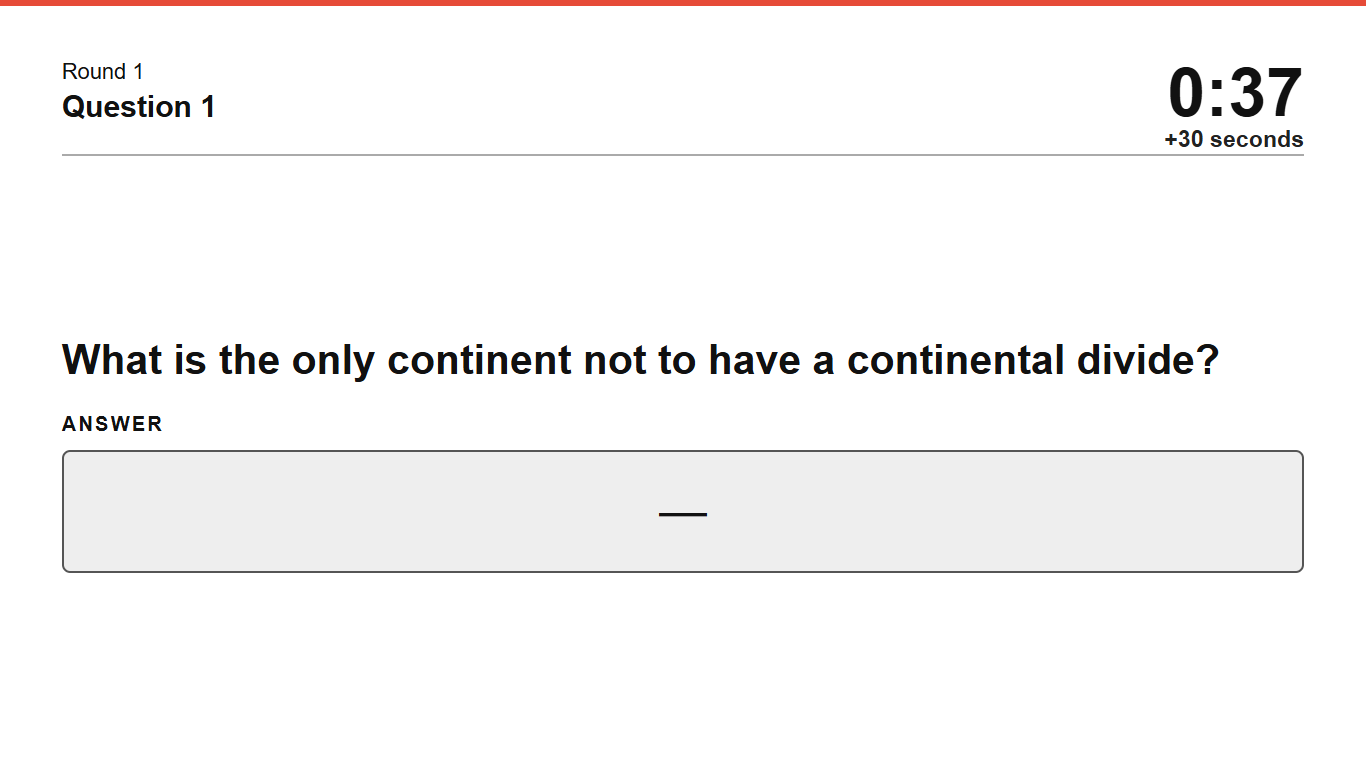
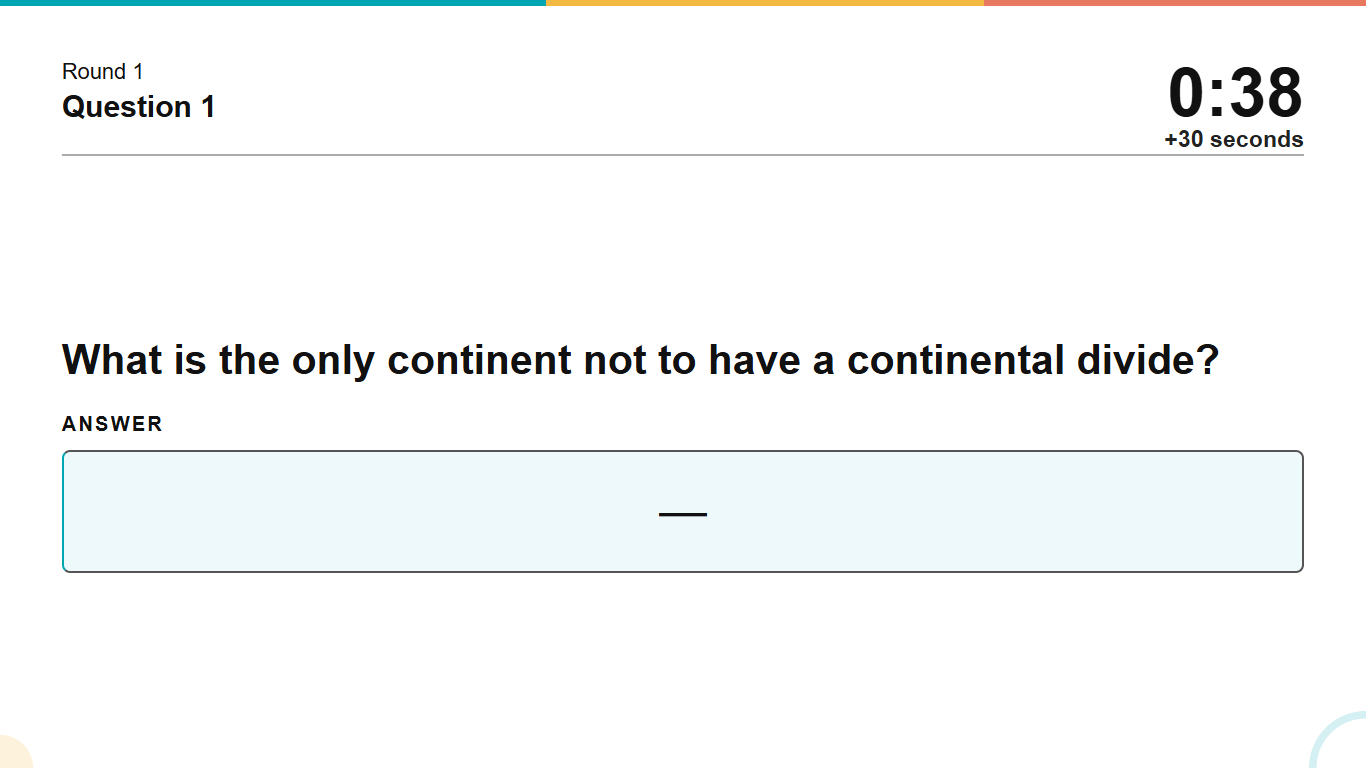
Simplify trivia timer to a slider and single control

diff --git a/src/trivia/TriviaApp.tsx b/src/trivia/TriviaApp.tsx
@@ -42,11 +42,12 @@ export function TriviaApp({route}:{route:string}){
   </> }</main>;
 }
 
-function TriviaHost({deck,session:s,now,act,fail}:{deck:TriviaDeck;session:TriviaSession;now:number;act:(a:TriviaAction)=>void;fail:(e:unknown)=>void}){const c=deck.cards[s.index];const running=['question','answers'].includes(s.phase);return <div className="trivia-host"><section className="panel trivia-controls"><p>{s.title} · screen {s.index+1}/{deck.cards.length} · {s.phase}</p><div className="button-row"><button disabled={!s.history.length} onClick={()=>act({type:'previous'})}>← Back / undo</button><button className="primary" disabled={s.phase==='scores'&&s.checkpoint==='final'} onClick={()=>act({type:'next'})}>{s.phase==='card'&&c.kind==='question'?'Show question & start timer':'Next →'}</button><button onClick={()=>act({type:'intro'})}>Intro</button><select aria-label="Jump to trivia screen" value={s.index} onChange={e=>act({type:'jump',index:Number(e.target.value)})}>{deck.cards.map((card,i)=><option value={i} key={card.id}>{card.round} · {card.title}</option>)}</select></div><h2>{s.phase==='scores'?`${s.checkpoint} standings`:c.title}</h2><p className="trivia-host-prompt">{c.prompt}</p><div className="button-row">{s.phase==='scores'?<><button onClick={()=>act({type:'revealStanding'})}>Reveal next team ↑</button><button onClick={()=>act({type:'closeScores'})}>Close scores / return</button></>:<>{c.answers.length>6&&s.phase!=='answers'&&<button disabled={!running} onClick={()=>act({type:'showAnswerBoard'})}>Show answer board</button>}<button disabled={!running||s.revealed>=c.answers.length} onClick={()=>act({type:'reveal'})}>Reveal next answer ({s.revealed}/{c.answers.length})</button>{s.phase==='answers'&&<button onClick={()=>act({type:'hideAnswers'})}>Hide answers</button>}<button onClick={()=>act({type:'scores',checkpoint:'manual'})}>Show scores on TV</button></>}</div><QuestionTiming key={c.id+questionSeconds(s,c)} seconds={questionSeconds(s,c)} disabled={c.kind!=='question'||s.phase==='scores'} act={act}/><div className="trivia-timer-controls"><b>{formatTime(triviaLeft(s,now))}</b><button disabled={!running} onClick={()=>act({type:'toggleTimer'})}>{s.end===null?'Start timer':'Pause'}</button><button disabled={!running} onClick={()=>act({type:'extend'})}>+30 seconds</button><button disabled={!running} onClick={()=>act({type:'resetTimer'})}>Reset timer</button><label><input type="checkbox" checked={s.muted} onChange={e=>{const muted=e.target.checked;void updateTrivia(current=>current?{...current,muted}:null).catch(fail);}}/> Mute</label><label>Sound volume<input aria-label="Trivia sound volume" type="range" min="0" max="1" step=".05" value={s.volume??.8} onChange={e=>{const volume=Number(e.target.value);void updateTrivia(current=>current?{...current,volume}:null).catch(fail);}}/></label><button onClick={()=>{void testSound(s.volume??.8,s.muted);}}>Enable / test sound</button><span>{audioReady()?'Sound ready · presenter output':'Sound not enabled yet'}</span></div><p className="subtle">Next: title card → question + timer → following screen. Scores appear before Round 3, before the final question, and after it. Space reveals; N / → next; U / ← back; T timer.</p></section><aside className="trivia-host-side"><div className="trivia-preview"><TriviaDisplay deck={deck} session={s} now={now}/></div></aside></div>;}
+function TriviaHost({deck,session:s,now,act,fail}:{deck:TriviaDeck;session:TriviaSession;now:number;act:(a:TriviaAction)=>void;fail:(e:unknown)=>void}){const c=deck.cards[s.index];const running=['question','answers'].includes(s.phase);return <div className="trivia-host"><section className="panel trivia-controls"><p>{s.title} · screen {s.index+1}/{deck.cards.length} · {s.phase}</p><div className="button-row"><button disabled={!s.history.length} onClick={()=>act({type:'previous'})}>← Back / undo</button><button className="primary" disabled={s.phase==='scores'&&s.checkpoint==='final'} onClick={()=>act({type:'next'})}>{s.phase==='card'&&c.kind==='question'?'Show question & start timer':'Next →'}</button><button onClick={()=>act({type:'intro'})}>Intro</button><select aria-label="Jump to trivia screen" value={s.index} onChange={e=>act({type:'jump',index:Number(e.target.value)})}>{deck.cards.map((card,i)=><option value={i} key={card.id}>{card.round} · {card.title}</option>)}</select></div><h2>{s.phase==='scores'?`${s.checkpoint} standings`:c.title}</h2><p className="trivia-host-prompt">{c.prompt}</p><div className="button-row">{s.phase==='scores'?<><button onClick={()=>act({type:'revealStanding'})}>Reveal next team ↑</button><button onClick={()=>act({type:'closeScores'})}>Close scores / return</button></>:<>{c.answers.length>6&&s.phase!=='answers'&&<button disabled={!running} onClick={()=>act({type:'showAnswerBoard'})}>Show answer board</button>}<button disabled={!running||s.revealed>=c.answers.length} onClick={()=>act({type:'reveal'})}>Reveal next answer ({s.revealed}/{c.answers.length})</button>{s.phase==='answers'&&<button onClick={()=>act({type:'hideAnswers'})}>Hide answers</button>}<button onClick={()=>act({type:'scores',checkpoint:'manual'})}>Show scores on TV</button></>}</div><QuestionTiming key={c.id+questionSeconds(s,c)} seconds={questionSeconds(s,c)} left={triviaLeft(s,now)} running={s.end!==null} disabled={!running} act={act}/><div className="trivia-sound-controls"><label><input type="checkbox" checked={s.muted} onChange={e=>{const muted=e.target.checked;void updateTrivia(current=>current?{...current,muted}:null).catch(fail);}}/> Mute</label><label>Sound volume<input aria-label="Trivia sound volume" type="range" min="0" max="1" step=".05" value={s.volume??.8} onChange={e=>{const volume=Number(e.target.value);void updateTrivia(current=>current?{...current,volume}:null).catch(fail);}}/></label><button onClick={()=>{void testSound(s.volume??.8,s.muted);}}>Enable / test sound</button><span>{audioReady()?'Sound ready · presenter output':'Sound not enabled yet'}</span></div><p className="subtle">Next: title card → question + timer → following screen. Scores appear before Round 3, before the final question, and after it. Space reveals; N / → next; U / ← back; T timer.</p></section><aside className="trivia-host-side"><div className="trivia-preview"><TriviaDisplay deck={deck} session={s} now={now}/></div></aside></div>;}
 
-function QuestionTiming({seconds,disabled,act}:{seconds:number;disabled:boolean;act:(a:TriviaAction)=>void}){
- const [value,setValue]=useState(String(seconds));
- return <div className="trivia-question-timing"><label>Seconds for this question<input aria-label="Seconds for this question" type="number" min="10" max="3600" step="1" value={value} disabled={disabled} onChange={e=>setValue(e.target.value)}/></label><button disabled={disabled||!Number.isInteger(Number(value))||Number(value)<10||Number(value)>3600} onClick={()=>act({type:'duration',seconds:Number(value)})}>Set / restart time</button><small>Saved for this question in this night. Use the editor to save a game default.</small></div>;
+function QuestionTiming({seconds,left,running,disabled,act}:{seconds:number;left:number;running:boolean;disabled:boolean;act:(a:TriviaAction)=>void}){
+ const [value,setValue]=useState(Math.min(600,Math.max(0,Math.round(seconds/15)*15)));
+ const changed=value!==seconds;
+ return <div className="trivia-question-timing"><label>Timer <strong>{formatTime(changed?value:left)}</strong><input aria-label="Seconds for this question" aria-valuetext={formatTime(value)} type="range" min="0" max="600" step="15" value={value} disabled={disabled} onChange={e=>setValue(Number(e.target.value))}/><span className="trivia-slider-scale">0:00 <span>10:00 · 15-second steps</span></span></label><button disabled={disabled} onClick={()=>act(!changed&&left>0?{type:'toggleTimer'}:{type:'duration',seconds:value,start:true})}>{running&&left>0&&!changed?'Pause':changed||left===0?'Restart timer':'Start timer'}</button></div>;
 }
 
 function Brand(){return <div className="trivia-brand"><img src="./outspoken-dark.png" alt="Outspoken Entertainment"/></div>;}

diff --git a/src/trivia/timing.test.ts b/src/trivia/timing.test.ts
@@ -4,7 +4,7 @@ import {newTriviaSession,reduceTrivia,triviaLeft} from './engine';
 import {cardSeconds,suggestedSeconds} from './timing';
 import {validateTriviaSession} from './types';
 it('uses 3/4/5/6-minute automatic defaults and preserves explicit times',()=>{const c=blankCard('question');c.answers=['One'];expect(cardSeconds(c)).toBe(180);c.answers=['One','Two','Three','Four'];expect(cardSeconds(c)).toBe(240);c.answers.push('Five');expect(cardSeconds(c)).toBe(300);c.title='Final bonus';expect(suggestedSeconds(c)).toBe(360);c.autoTime=false;c.seconds=420;expect(cardSeconds(c)).toBe(420);});
-it('saves each question override through navigation, reset and result reload; undo restores it',()=>{const d=parseTriviaText('Title: Test\nRound 1\nQuestion 1\nQuestion: First?\nAnswer: One\nQuestion 2\nQuestion: Second?\nAnswer: Two');let s=newTriviaSession(d);s=reduceTrivia(s,{type:'jump',index:1},d,1000);expect(s.remaining).toBe(180);s=reduceTrivia(s,{type:'duration',seconds:330},d,1000);s=reduceTrivia(s,{type:'next'},d,2000);expect(triviaLeft(s,12000)).toBe(320);s=reduceTrivia(s,{type:'duration',seconds:420},d,12000);expect(triviaLeft(s,12000)).toBe(420);s=reduceTrivia(s,{type:'undo'},d,13000);expect(s.durations?.[d.cards[1].id]).toBe(330);s=reduceTrivia(s,{type:'jump',index:2},d);expect(s.remaining).toBe(180);s=reduceTrivia(s,{type:'jump',index:1},d);expect(s.remaining).toBe(330);s=reduceTrivia(s,{type:'resetTimer'},d);expect(validateTriviaSession(JSON.parse(JSON.stringify(s)),d).remaining).toBe(330);expect(reduceTrivia(s,{type:'duration',seconds:0},d)).toEqual(s);});
+it('saves each question override through navigation, reset and result reload; undo restores it',()=>{const d=parseTriviaText('Title: Test\nRound 1\nQuestion 1\nQuestion: First?\nAnswer: One\nQuestion 2\nQuestion: Second?\nAnswer: Two');let s=newTriviaSession(d);s=reduceTrivia(s,{type:'jump',index:1},d,1000);expect(s.remaining).toBe(180);s=reduceTrivia(s,{type:'duration',seconds:330},d,1000);s=reduceTrivia(s,{type:'next'},d,2000);expect(triviaLeft(s,12000)).toBe(320);s=reduceTrivia(s,{type:'duration',seconds:420},d,12000);expect(triviaLeft(s,12000)).toBe(420);s=reduceTrivia(s,{type:'undo'},d,13000);expect(s.durations?.[d.cards[1].id]).toBe(330);s=reduceTrivia(s,{type:'jump',index:2},d);expect(s.remaining).toBe(180);s=reduceTrivia(s,{type:'jump',index:1},d);expect(s.remaining).toBe(330);s=reduceTrivia(s,{type:'resetTimer'},d);expect(validateTriviaSession(JSON.parse(JSON.stringify(s)),d).remaining).toBe(330);expect(reduceTrivia(s,{type:'duration',seconds:-15},d)).toEqual(s);s=reduceTrivia(s,{type:'duration',seconds:0},d);expect(validateTriviaSession(JSON.parse(JSON.stringify(s)),d).remaining).toBe(0);expect(reduceTrivia(s,{type:'duration',seconds:615},d)).toEqual(s);expect(reduceTrivia(s,{type:'duration',seconds:17},d)).toEqual(s);expect(reduceTrivia(s,{type:'duration',seconds:600},d).remaining).toBe(600);});
 it('text import honors explicit timing and exports effective automatic timing',()=>{const d=parseTriviaText('Round 1\nQuestion 1\nQuestion: First?\nAnswer: One\nTimer: 270');expect(cardSeconds(d.cards[1])).toBe(270);d.cards[1].autoTime=true;expect(parseTriviaText(exportTriviaText(d)).cards[1].seconds).toBe(180);});
 
 it('prepares hidden answers, pauses time and undoes an extension after JSON persistence',()=>{const d=parseTriviaText('Title: Test\nRound 1\nQuestion 1\nQuestion: First?\nAnswer: One');let s=newTriviaSession(d);s=reduceTrivia(s,{type:'jump',index:1},d,1000);s=reduceTrivia(s,{type:'next'},d,1000);s=reduceTrivia(s,{type:'extend'},d,2000);expect(s.extensionAt).toBe(2000);expect(triviaLeft(s,2000)).toBe(209);s=reduceTrivia(JSON.parse(JSON.stringify(s)),{type:'undo'},d,3000);expect(s.extensionAt).toBeUndefined();s=reduceTrivia(s,{type:'showAnswerBoard'},d,4000);expect(s.phase).toBe('answers');expect(s.revealed).toBe(0);expect(s.end).toBeNull();s=reduceTrivia(s,{type:'reveal'},d,5000);expect(s.revealed).toBe(1);});

diff --git a/src/trivia/engine.ts b/src/trivia/engine.ts
@@ -1,6 +1,6 @@
 import type { TriviaDeck, TriviaFrame, TriviaSession, Standing } from './types';
 import {cardSeconds,questionSeconds} from './timing';
-export type TriviaAction={type:'showAnswerBoard'|'next'|'previous'|'undo'|'reveal'|'hideAnswers'|'toggleTimer'|'extend'|'resetTimer'|'intro'|'closeScores'|'revealStanding'}|{type:'duration';seconds:number}|{type:'revealAnswer';index:number}|{type:'jump';index:number}|{type:'scores';checkpoint:'manual'|'halfway'|'beforeFinal'|'final'};
+export type TriviaAction={type:'showAnswerBoard'|'next'|'previous'|'undo'|'reveal'|'hideAnswers'|'toggleTimer'|'extend'|'resetTimer'|'intro'|'closeScores'|'revealStanding'}|{type:'duration';seconds:number;start?:boolean}|{type:'revealAnswer';index:number}|{type:'jump';index:number}|{type:'scores';checkpoint:'manual'|'halfway'|'beforeFinal'|'final'};
 export const triviaLeft=(s:TriviaFrame,now=Date.now())=>Math.max(0,s.end===null?s.remaining:(s.end-now)/1000);
 export function newTriviaSession(deck:TriviaDeck):TriviaSession{
   const date=new Date();return {version:1,deckId:deck.id,title:deck.title,date:`${date.getFullYear()}-${String(date.getMonth()+1).padStart(2,'0')}-${String(date.getDate()).padStart(2,'0')}`,venue:'',teams:[{id:crypto.randomUUID(),name:'Team 1',scores:{}},{id:crypto.randomUUID(),name:'Team 2',scores:{}}],muted:false,revision:0,history:[],index:0,phase:'intro',revealed:0,remaining:deck.cards[0]?cardSeconds(deck.cards[0]):180,end:null,started:false,standingsShown:0};
@@ -53,8 +53,8 @@ export function reduceTrivia(state:TriviaSession,action:TriviaAction,deck:Trivia
     const left=triviaLeft(s,now);s.remaining=left||questionSeconds(s,c);s.end=s.end===null?now+s.remaining*1000:null;s.started=true;
   }else if(action.type==='extend'){if(!['question','answers'].includes(s.phase))return state;s.extensionAt=now;s.remaining=triviaLeft(s,now)+30;if(s.end!==null)s.end=now+s.remaining*1000;}
   else if(action.type==='duration'){
-    if(c.kind!=='question'||s.phase==='scores'||!Number.isInteger(action.seconds)||action.seconds<10||action.seconds>3600)return state;
-    s.durations={...s.durations,[c.id]:action.seconds};s.remaining=action.seconds;if(s.end!==null)s.end=now+action.seconds*1000;
+    if(c.kind!=='question'||s.phase==='scores'||!Number.isInteger(action.seconds)||action.seconds<0||action.seconds>600||action.seconds%15!==0)return state;
+    s.durations={...s.durations,[c.id]:action.seconds};s.remaining=action.seconds;if(s.end!==null||action.start)s.end=now+action.seconds*1000;if(action.start)s.started=true;
   }
   else if(action.type==='resetTimer'){s.remaining=questionSeconds(s,c);s.end=null;s.started=false;}
   s.history=[...state.history.slice(-49),before];return s;

diff --git a/src/trivia/types.ts b/src/trivia/types.ts
@@ -42,7 +42,7 @@ export function validateTriviaDeck(value:unknown):TriviaDeck {
 export function validateTriviaSession(value:unknown,deck:TriviaDeck):TriviaSession {
   const s=value as TriviaSession;
   if(!s||s.version!==1||s.deckId!==deck.id||[s.title,s.date,s.venue].some(v=>typeof v!=='string')||!Array.isArray(s.teams)||!s.teams.length||!Number.isInteger(s.index)||s.index<0||s.index>=deck.cards.length||!['intro','card','question','answers','scores'].includes(s.phase)||!Number.isFinite(s.remaining)||s.remaining<0||(s.end!==null&&!Number.isFinite(s.end))||!Number.isInteger(s.revealed)||s.revealed<0)throw Error('This trivia result has invalid saved state.');
-  if(s.durations&&(typeof s.durations!=='object'||Object.values(s.durations).some(n=>!Number.isInteger(n)||n<10||n>3600)))throw Error('Invalid question timer settings.');
+  if(s.durations&&(typeof s.durations!=='object'||Object.values(s.durations).some(n=>!Number.isInteger(n)||n<0||n>3600)))throw Error('Invalid question timer settings.');
   const ids=new Set<string>();for(const t of s.teams){if(!t||typeof t.id!=='string'||ids.has(t.id)||typeof t.name!=='string'||!t.scores||typeof t.scores!=='object'||Object.values(t.scores).some(v=>v!==null&&!Number.isFinite(v)))throw Error('This trivia result has invalid team scores.');ids.add(t.id);}
   // Imported nights resume paused at a title card: scores survive without reviving an old timer.
   return {...structuredClone(s),phase:'card',end:null,remaining:s.durations?.[deck.cards[s.index].id]??cardSeconds(deck.cards[s.index]),revealed:0,revealedAnswers:[],started:false,history:[],standings:undefined,standingsShown:0,checkpoint:undefined,scoreReturn:undefined,muted:!!s.muted,revision:0};

diff --git a/src/trivia/dark.css b/src/trivia/dark.css
@@ -295,3 +295,5 @@
 @media(prefers-reduced-motion:reduce){.trivia-slide .trivia-ranks>div.shown{animation:none}}
 /* Peripheral decoration stays outside the main reading area. */
 .trivia-slide .trivia-stage{background-image:radial-gradient(circle at 100% 100%,transparent 0 3.6cqw,#00a6b22b 3.65cqw 4.15cqw,transparent 4.2cqw),radial-gradient(circle at 0 100%,#f4b94230 0 2.4cqw,transparent 2.45cqw);background-color:#fff}
+.trivia-question-timing label{flex:1;min-width:160px}.trivia-question-timing input[type=range]{display:block;width:100%;max-width:280px;padding:0;margin-top:8px;accent-color:#008b98}.trivia-question-timing label strong{font-variant-numeric:tabular-nums;color:#111}
+.trivia-sound-controls{display:flex;align-items:center;gap:8px;flex-wrap:wrap;border-top:1px solid #bbb;margin-top:14px;padding-top:12px;font-size:12px}.trivia-sound-controls input[type=range]{width:110px}.trivia-sound-controls input[type=checkbox]{width:auto}.trivia-slider-scale{display:flex;justify-content:space-between;font-size:11px;margin-top:5px}.trivia-question-timing{align-items:center}.trivia-question-timing label{max-width:280px}.trivia-question-timing label>strong{float:right;font-size:22px}

diff --git a/README.md b/README.md
@@ -200,7 +200,7 @@ All question inputs stay visible together, with compact headers such as R1Q4 and
 
 ### Trivia timer cues and answer animation
 
-Enter durations in seconds (10–3600). At 60 and 30 seconds remaining, large coral text travels down from the timer over a dimmed card, holds briefly, then returns to the timer, accompanied by a gentle tone. The last ten seconds have a large centered countdown over the dimmed card and quiet ticks; the countdown stays until time expires. Pausing hides the countdown; adding time removes it immediately when more than ten seconds remain and displays **+30 seconds** beside the timer. Sound follows presenter mute/volume and never duplicates on the TV.
+Use the timer slider (0–10 minutes in 15-second steps) and its single Start / Pause / Restart button. Sound controls sit below. The + keyboard shortcut still adds 30 seconds. At 60 and 30 seconds remaining, large coral text travels down from the timer over a dimmed card, holds briefly, then returns to the timer, accompanied by a gentle tone. The last ten seconds have a large centered countdown over the dimmed card and quiet ticks; the countdown stays until time expires. Pausing hides the countdown; adding time removes it immediately when more than ten seconds remain and displays **+30 seconds** beside the timer. Sound follows presenter mute/volume and never duplicates on the TV.
 
 Questions with up to six answers open with large question text and hidden answer boxes together. **Reveal next answer** flips a box in place and hides the timer without moving the question. Crowded questions, including the final bonus, use a separate answer view; **Show answer board** prepares that view without revealing answers. Single answers are large and centered, without numbering. Reduced-motion preferences disable movement. The private score-sheet answer card is unchanged.
 

diff --git a/TEST-REPORT.md b/TEST-REPORT.md
@@ -170,3 +170,6 @@ The broader editor/reorder/synchronization regression and countdown/sound browse
 
 ### Bright standings and rank accents
 Trivia standings use light backgrounds with black text and rank-based medal accents. Browser checks pass for 1/2/3/5/10 teams at 720p/1080p, including silver for the second of two teams. Two-team screenshot visually inspected. Question contrast/layout, typecheck, lint and build pass. Public October final wording shortened to 10 answers without changing accepted answers or scoring.
+
+### Simplified timer controls
+Presenter timer is a 0–600-second slider in 15-second increments with a single Start/Pause/Restart button. Sound controls are grouped below. Browser tests verify pause/resume, zero and ten-minute endpoints, step size, 270-second persistence, audience synchronization and 1366×768 fit. Existing countdown/sound checks pass using the + keyboard extension. Timing unit tests, typecheck, lint and production build pass.
